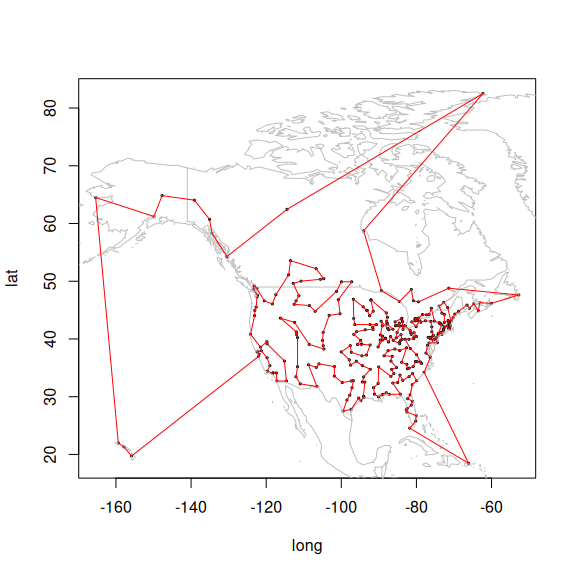
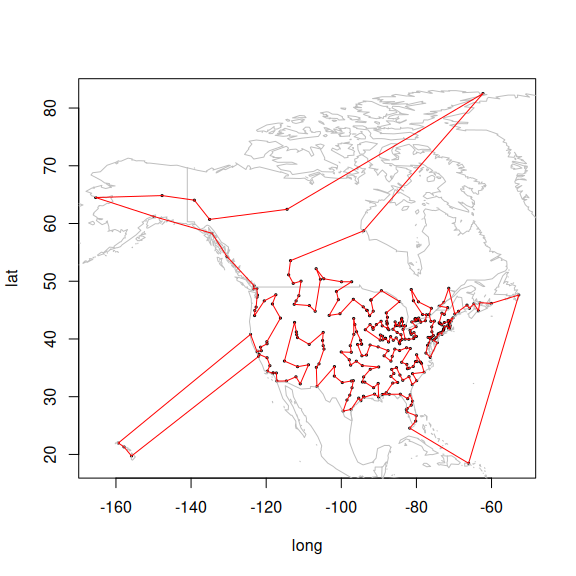
fixes reference link.

diff --git a/README.md b/README.md
@@ -11,29 +11,29 @@ status](https://mhahsler.r-universe.dev/badges/TSP)](https://mhahsler.r-universe
 
 ## Introduction
 
-The TSP package ([Hahsler and Hornik 2007](#ref-TSP:Hahsler+Hornik2007))
+The TSP package ([Hahsler and Hornik 2007](#ref-Hahsler+Hornik2007))
 provides the basic infrastructure and some algorithms for the traveling
 salesman problems (symmetric, asymmetric and Euclidean TSPs). The
 package provides some fast implementations of simple algorithms
 including:
 
-- Tour construction heuristics
-  - **insertion algorithms**: nearest insertion, farthest insertion,
+- **Tour construction heuristics**
+  - **Insertion algorithms**: nearest insertion, farthest insertion,
     cheapest insertion, arbitrary insertion ([Rosenkrantz, Stearns, and
     Philip M. Lewis 1977](#ref-Rosenkrantz1977))
-  - **nearest neighbor methods**: Nearest neighbor and repetitive
+  - **Nearest neighbor methods**: Nearest neighbor and repetitive
     nearest neighbor ([Rosenkrantz, Stearns, and Philip M. Lewis
     1977](#ref-Rosenkrantz1977))
-- Improvement methods
-  - **two-opt heuristic** ([Croes 1958](#ref-Croes1958))
-  - **simulated annealing** ([Kirkpatrick, Gelatt, and Vecchi
+- **Tour improvement methods**
+  - **Two-opt heuristic** ([Croes 1958](#ref-Croes1958))
+  - **Simulated annealing** ([Kirkpatrick, Gelatt, and Vecchi
     1983](#ref-Kirkpatrick1983))
-- State-of-the-art solver
-  - An interface to the **Concorde TSP solver** ([Applegate et al.
-    2000](#ref-Applegate2000), [2006](#ref-Applegate2006)) and its
-    implementation of the **Chained-Lin-Kernighan heuristic**
-    ([Applegate, Cook, and Rohe 2003](#ref-Applegate2003)) is provided
-    (needs to be installed separately).
+- **State-of-the-art solver interface** (Concorde software needs to be
+  installed separately)
+  - **Concorde TSP solver** ([Applegate et al.
+    2000](#ref-Applegate2000), [2006](#ref-Applegate2006))
+  - **Chained-Lin-Kernighan heuristic** ([Applegate, Cook, and Rohe
+    2003](#ref-Applegate2003))
 
 The package can read and write the TSPLIB format ([Reinelt
 1991](#ref-Reinelt1991)) and it can solve many of the problems in the
@@ -123,7 +123,7 @@ tour
 
     ## object of class 'TOUR' 
     ## result of method 'arbitrary_insertion+two_opt' for 312 cities
-    ## tour length: 41369
+    ## tour length: 41829
 
 Show the first few cities in the tour.
 
@@ -131,12 +131,12 @@ Show the first few cities in the tour.
 head(tour, n = 10)
 ```
 
-    ##           Alert, NT       Churchill, MB     Thunder Bay, ON Sault Ste Marie, ON 
-    ##                   5                  59                 278                 249 
-    ##         Timmins, ON         Sudbury, ON       North Bay, ON     Quebec City, QC 
-    ##                 279                 269                 185                 213 
-    ##    Saint John's, NF          Syndey, NS 
-    ##                 230                 271
+    ##      San Juan, PR  Saint John's, NF        Syndey, NS Charlottetown, PE 
+    ##               243               230               271                55 
+    ##       Halifax, NS       Moncton, NB    Saint John, NB   Fredericton, NB 
+    ##               113               169               229                98 
+    ##        Bangor, ME       Augusta, ME 
+    ##                19                15
 
 Visualize the complete tour.
 
@@ -202,7 +202,7 @@ Croes, G. A. 1958. “A Method for Solving Traveling-Salesman Problems.”
 
 </div>
 
-<div id="ref-TSP:Hahsler+Hornik2007" class="csl-entry">
+<div id="ref-Hahsler+Hornik2007" class="csl-entry">
 
 Hahsler, Michael, and Kurt Hornik. 2007. “TSP – Infrastructure for the
 Traveling Salesperson Problem.” *Journal of Statistical Software* 23
